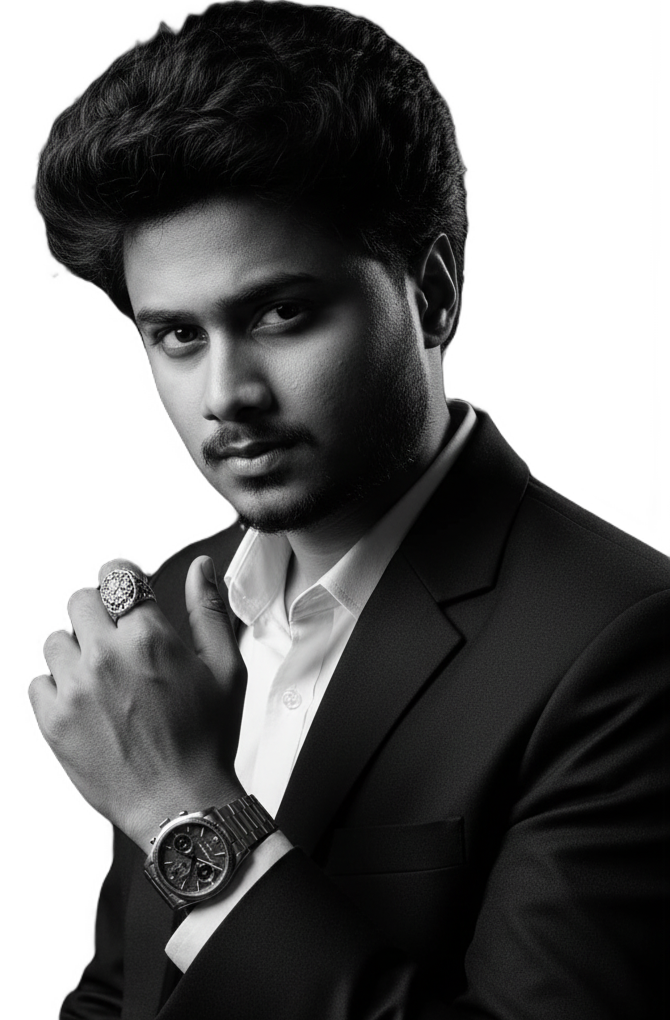
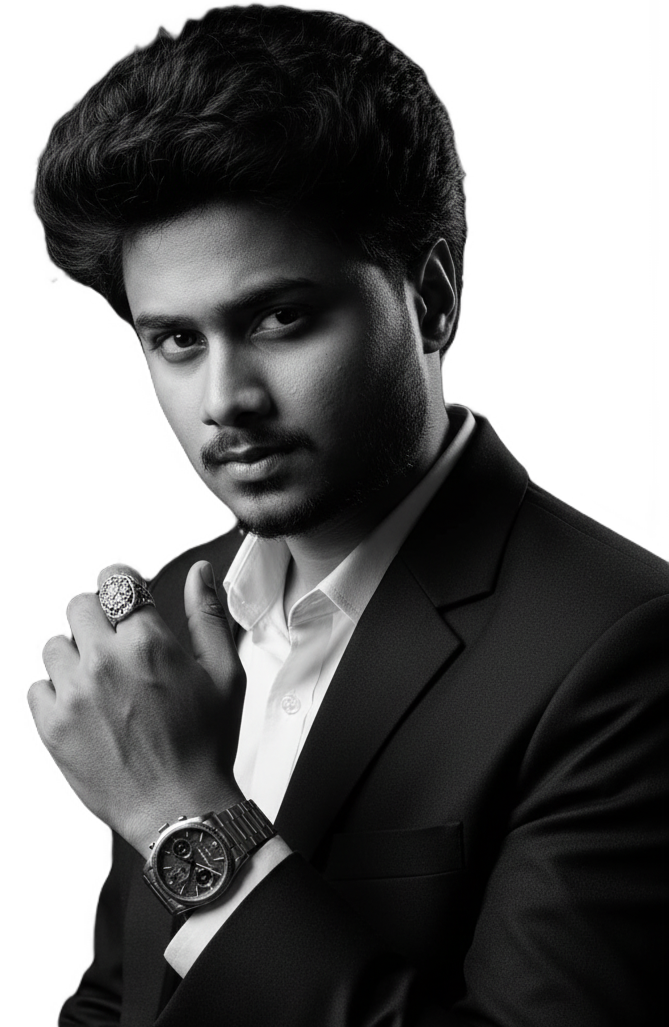
Final image output

diff --git a/src/Components/HeaderSection.jsx b/src/Components/HeaderSection.jsx
@@ -1,43 +1,49 @@
-import myPhoto from "../assets/png/myphoto.png"
+import myPhoto from "../assets/png/myphoto.png";
 
 function HeaderSection() {
   return (
-    <div className='bg-[#070707] text-white flex justify-between items-center'>
-      <div className='max-w-120 ml-6 sm:ml-10 md:ml-14'>
-        <div className='opacity-35 font-normal text-2xl sm:text-3xl md:text-[45px] mb-1'>
-          Hello, i’m
-        </div>
-        <h1 className='text-3xl sm:text-5xl md:text-[65px] leading-8 sm:leading-14 md:leading-[70px] mb-3 md:mb-6'>
-          <b className='text-[#c9f31d]'>Gowshik S</b>
-          <br />web developer
+    <div className="bg-[#070707] text-white flex flex-col-reverse md:flex-row items-center justify-between pt-5 pr-10 gap-8 md:gap-20">
+
+      <div className="">
+        <img
+          src={myPhoto}
+          alt="Gowshik"
+          className="-scale-x-100 w-[100px] sm:w-[180px] md:w-[250px] lg:w-[320px] h-auto object-contain transition-transform duration-500 hover:scale-[1.05]"
+        />
+      </div>
+
+      <div className="text-center md:text-left flex-1">
+        <div className="opacity-35 font-normal text-2xl sm:text-3xl md:text-[45px] mb-1">Hello, I’m</div>
+        <h1 className="text-3xl sm:text-5xl md:text-[65px] leading-8 sm:leading-[50px] md:leading-[70px] mb-3 md:mb-6">
+          <b className="text-[#c9f31d]">Gowshik S</b>
+          <br />
+          web developer
         </h1>
-        <p className='opacity-65 font-normal text-[12px] sm:text-[14px] md:text-[16px] leading-5 sm:leading-6 md:leading-[30px]'>
-          Passionate about building responsive and efficient applications, Strong problem-solving and teamwork abilities.
+        <p className='opacity-65 font-normal text-[12px] sm:text-[14px] md:text-[16px] leading-5 sm:leading-6 md:leading-[30px] max-w-[900px]'>
+          Passionate about developing responsive, high-performing web applications with a focus on clean and efficient code. Skilled in problem-solving and known for strong collaboration within team environments.
         </p>
-        <div className="flex flex-col sm:flex-row items-center justify-center sm:justify-start gap-3 sm:gap-6 md:gap-9 w-full mt-6 sm:mt-8 text-[12px] sm:text-[14px] md:text-[16px]">
-          <button className="bg-[#c9f31d] px-7 sm:px-9 md:px-12 py-2 sm:py-2.5 md:py-3 text-[#070707] font-semibold rounded-xl sm:rounded-[15px] cursor-pointer hover:bg-[#b4da1a] hover:transition-all duration-300"
+
+        <div className="flex flex-col sm:flex-row items-center justify-center md:justify-start gap-3 sm:gap-6 md:gap-9 w-full mt-6 sm:mt-8 text-[12px] sm:text-[14px] md:text-[16px]">
+          <button
+            className="bg-[#c9f31d] px-7 sm:px-9 md:px-12 py-2 sm:py-2.5 md:py-3 text-[#070707] font-semibold rounded-xl sm:rounded-[15px] cursor-pointer hover:bg-[#b4da1a] transition-all duration-300"
             onClick={() => {
-              document.querySelector('#projects')?.scrollIntoView({
-                behavior: 'smooth',
-              });
-            }}>
+              document.querySelector("#projects")?.scrollIntoView({ behavior: "smooth" });
+            }}
+          >
             View My Projects
           </button>
 
           <a
-            href="https://drive.usercontent.google.com/download?id=1Y18aK6ixzlMW2PCgdsyQDQ_VJcCVfztj&export=download&authuser=0&confirm=t&uuid=c79b3855-fbeb-4502-870c-76e892fa6e5f&at=AKSUxGMZLUTwn1HFd2NrvTSv42qo:1761417097492"
+            href="https://drive.usercontent.google.com/download?id=1Y18aK6ixzlMW2PCgdsyQDQ_VJcCVfztj&export=download"
             rel="noopener noreferrer"
-            className="underline text-[13px] sm:text-[14px] md:text-[16px] font-medium cursor-pointer hover:text-[#c9f31d] hover:transition-all duration-300">
+            className="underline text-[13px] sm:text-[14px] md:text-[16px] font-medium cursor-pointer hover:text-[#c9f31d] transition-all duration-300"
+          >
             Download Resume
           </a>
         </div>
-
-      </div>
-      <div className="pt-6 sm:pt-10 md:pt-14">
-        <img src={myPhoto} alt="myPhoto" width={300} height="100%"/>
       </div>
     </div>
-  )
+  );
 }
 
-export default HeaderSection
+export default HeaderSection;
